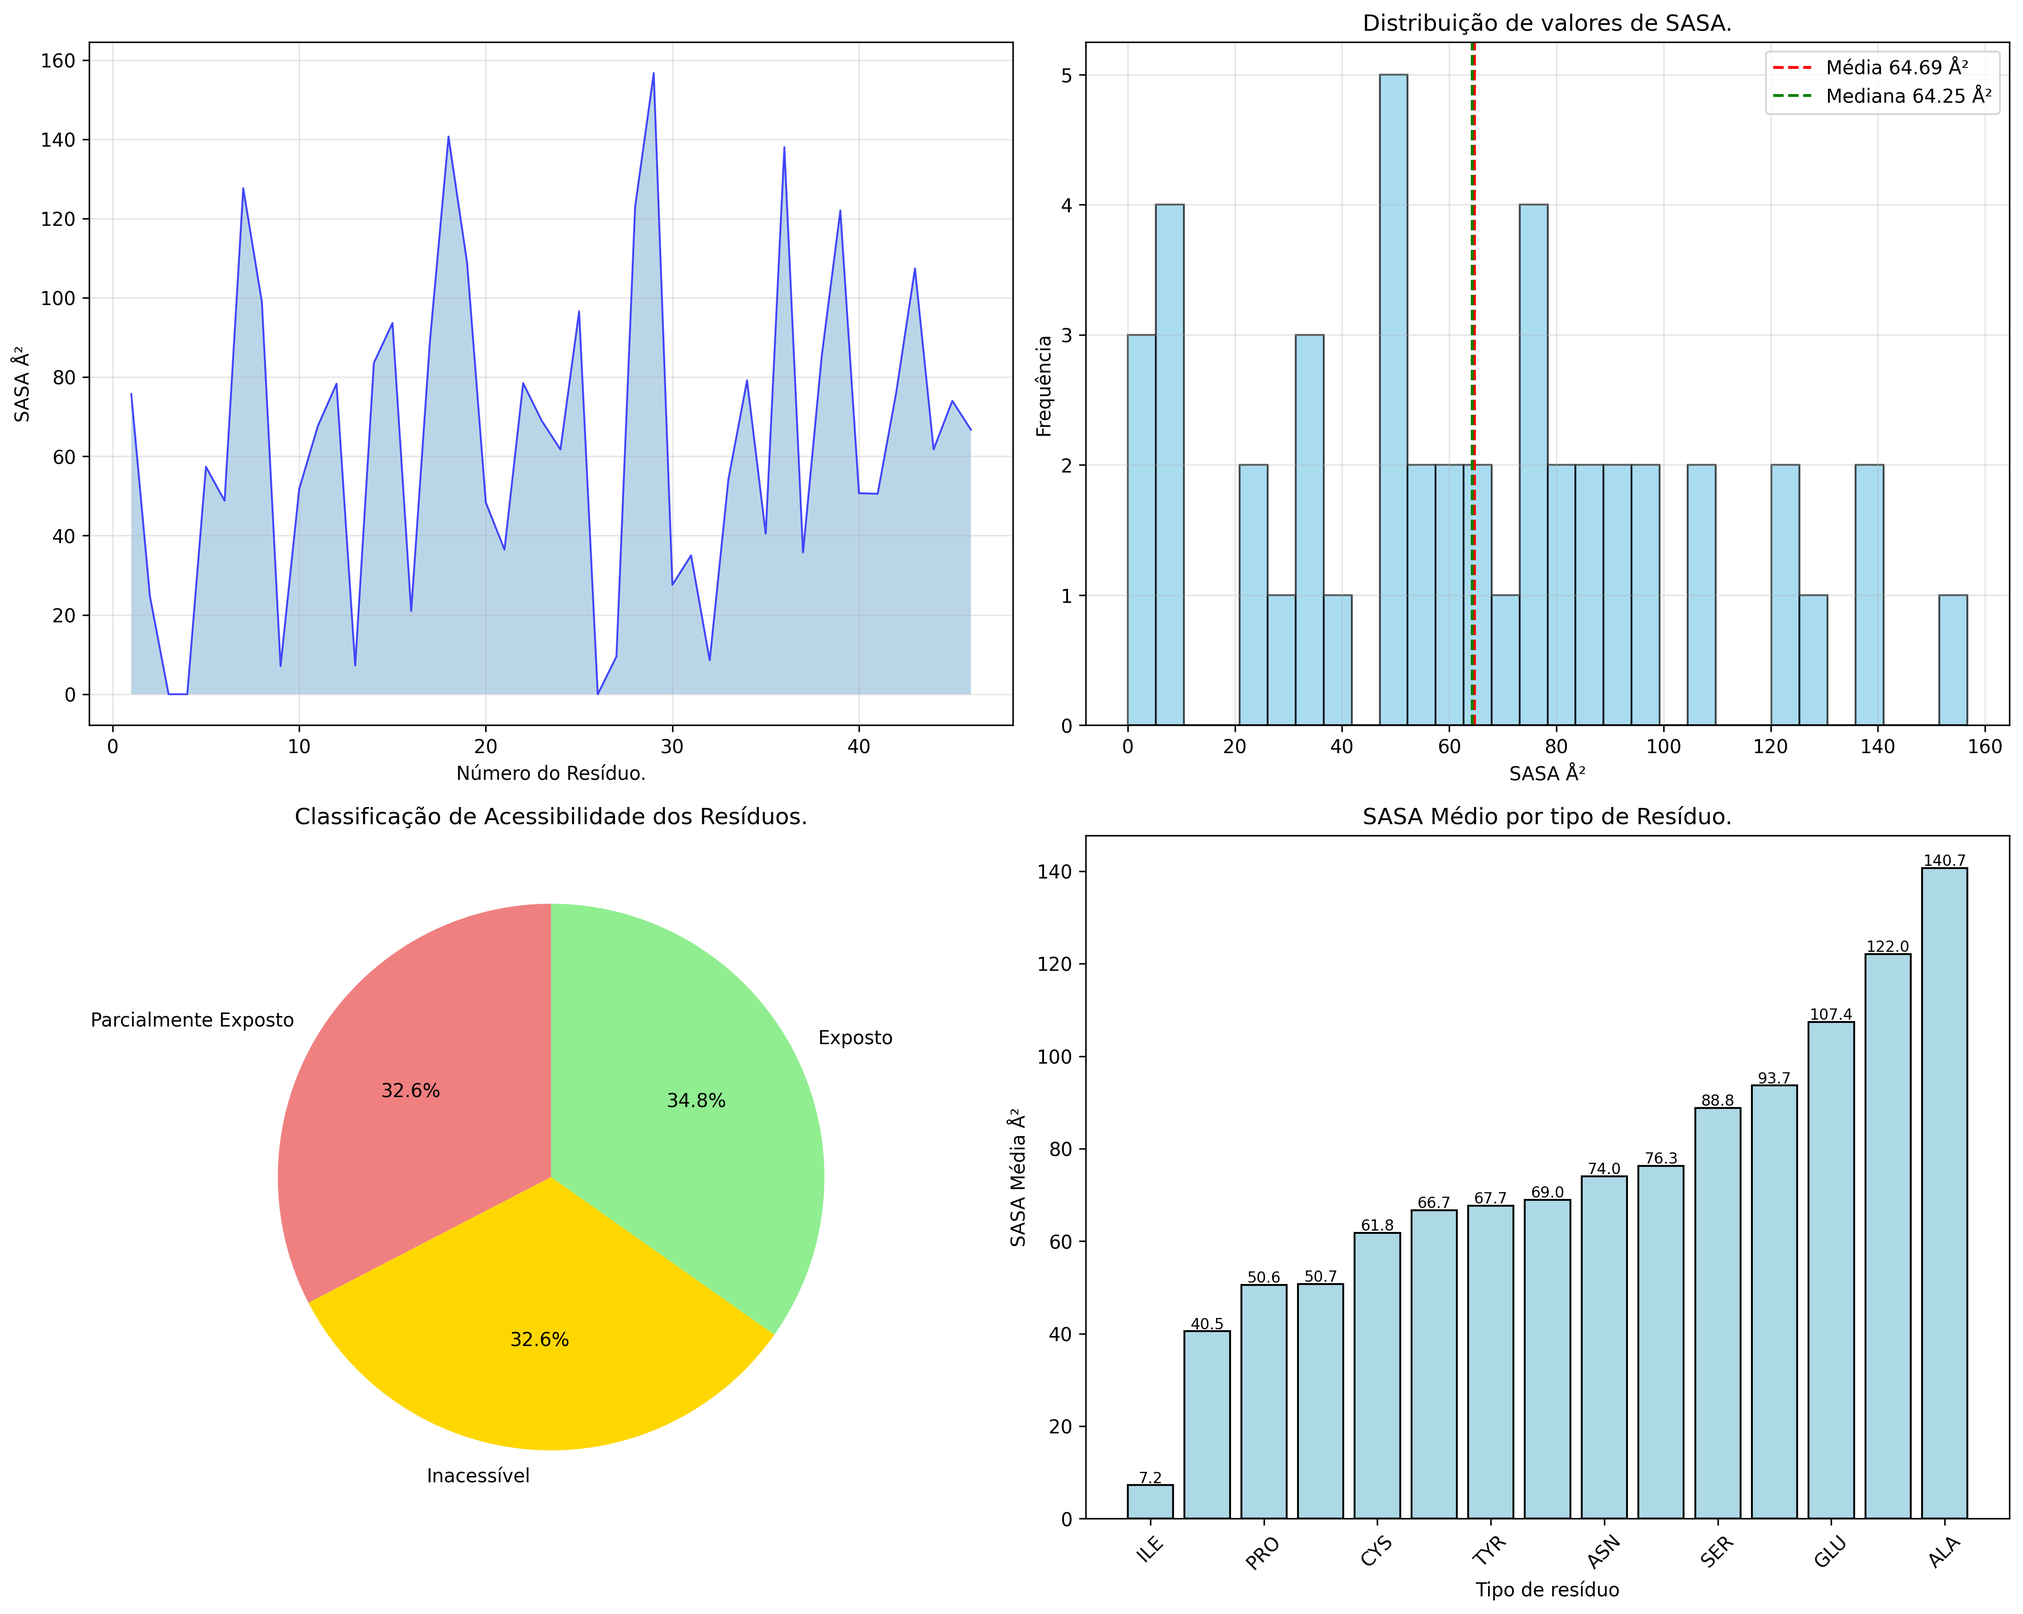
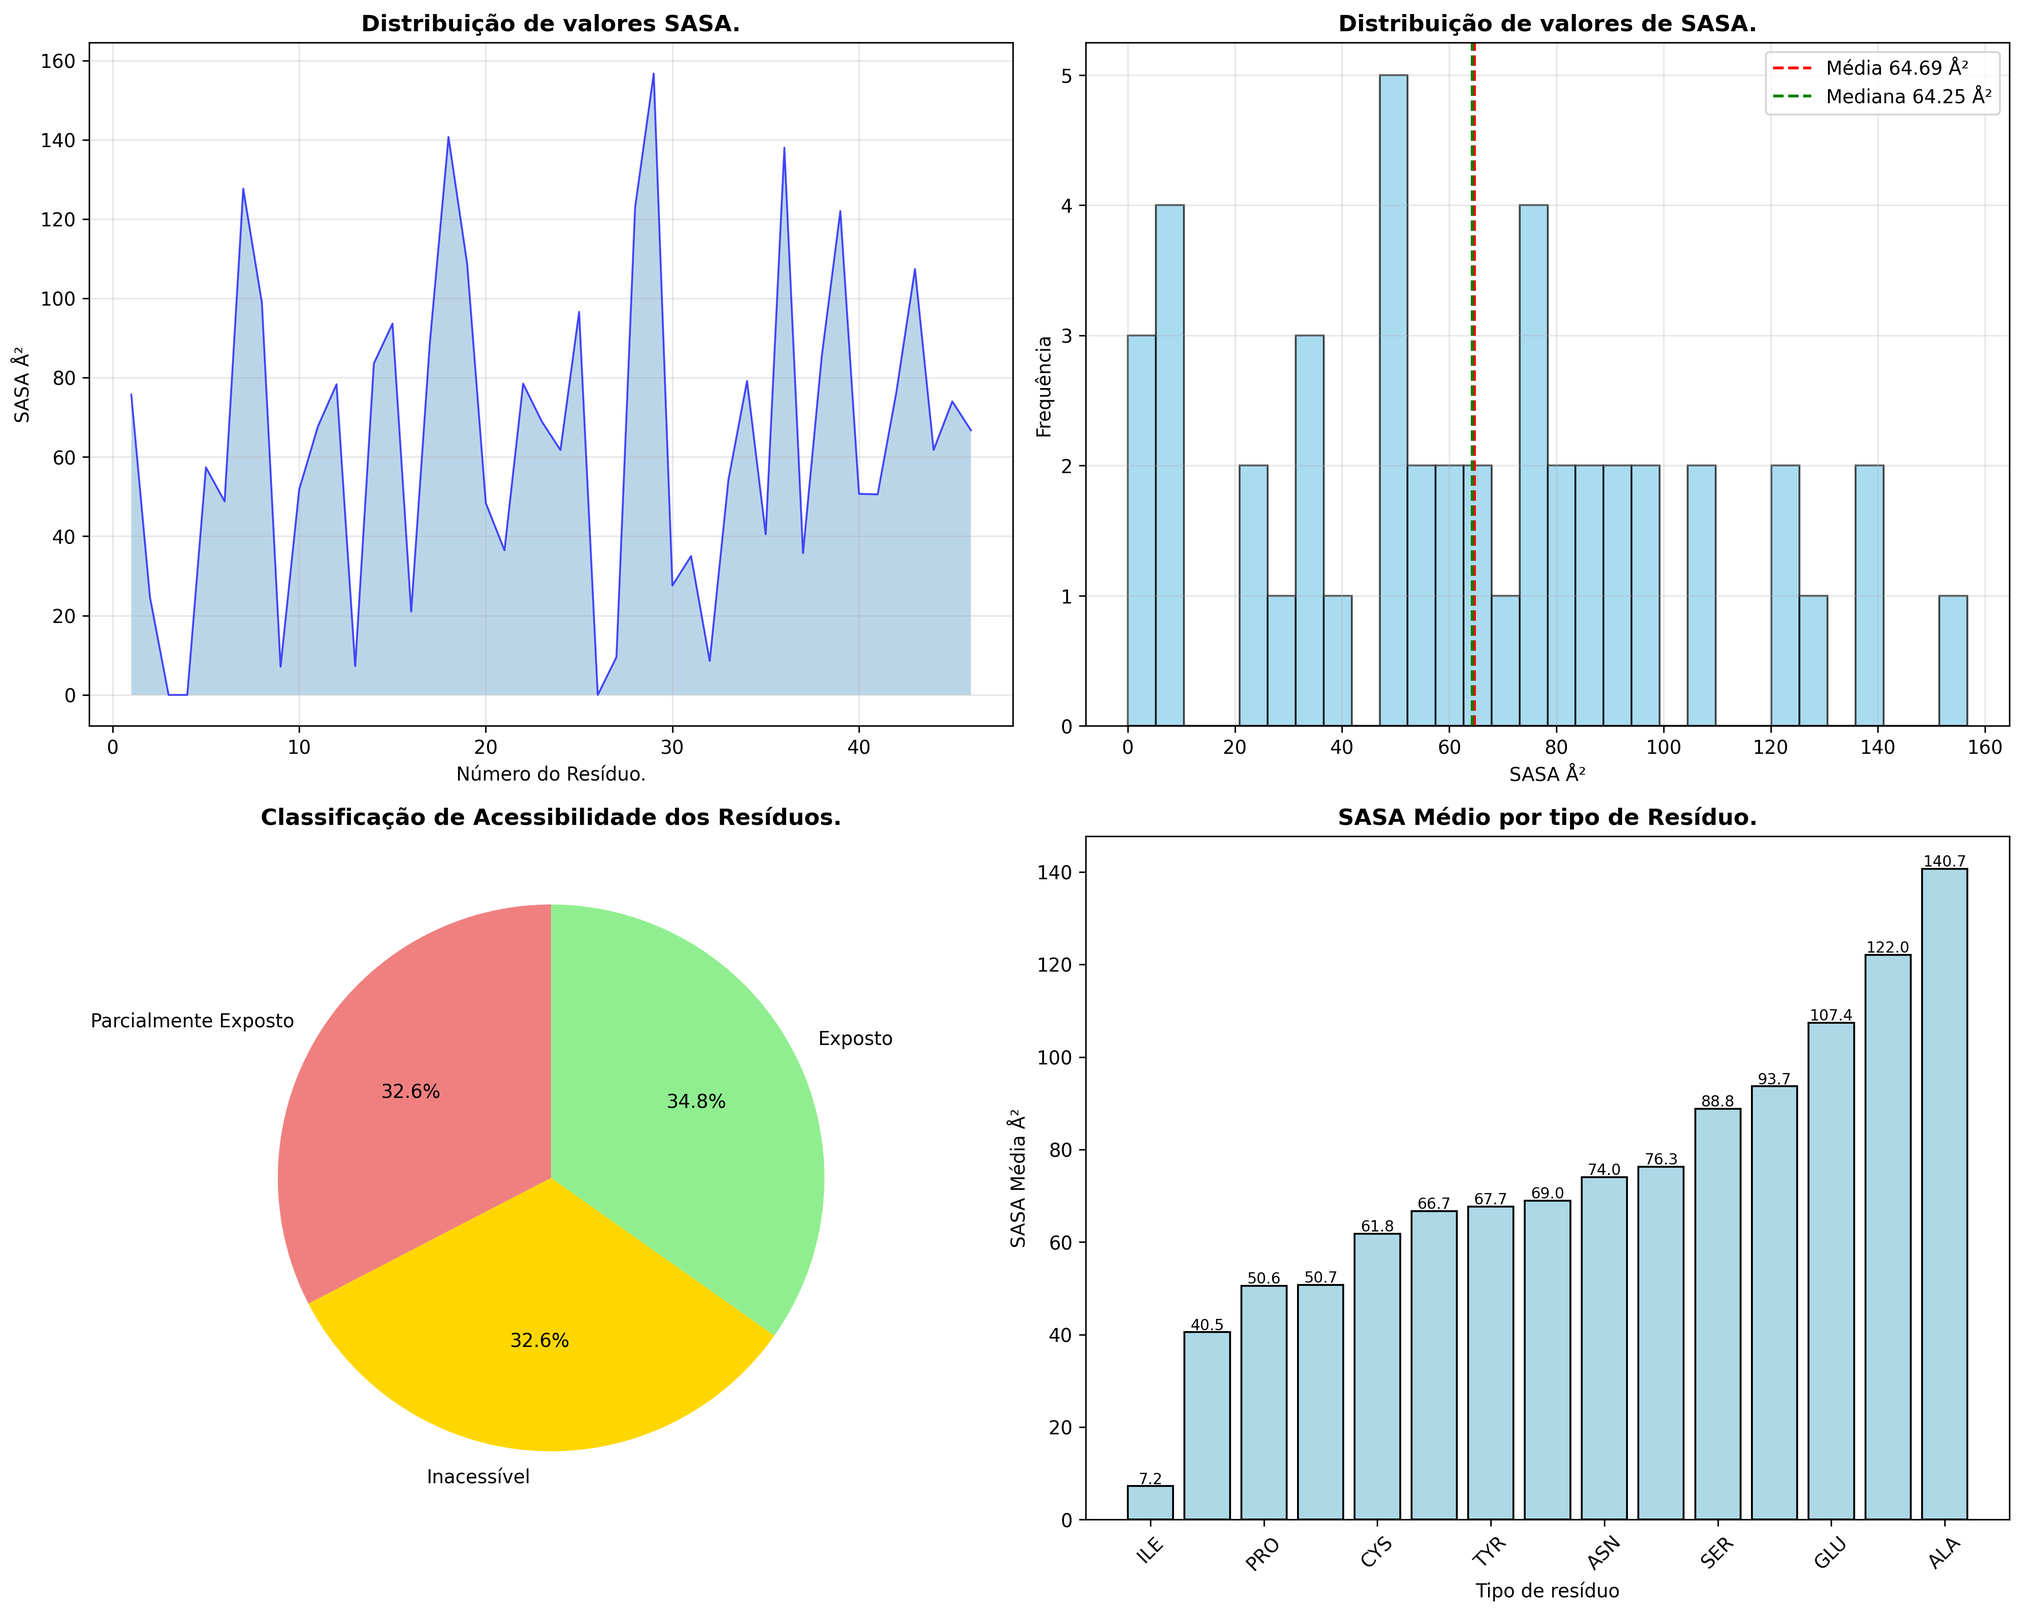
commit secundario
Geração dos arquivos e integração com PDF

diff --git a/src/pdf.py b/src/pdf.py
@@ -1,0 +1,133 @@
+import matplotlib.pyplot as plt
+from matplotlib.backends.backend_pdf import PdfPages
+import os
+import datetime
+
+class GeradorPDF:
+    def __init__(self, estrutura, destino):
+        self.estrutura = estrutura
+        self.destino = destino
+        self.__gerar_pdf()
+
+    def __gerar_pdf(self):
+        try:
+            caminho_pdf = os.path.join(self.destino, "relatorio_estrutural.pdf")
+
+            with PdfPages(caminho_pdf) as pdf:
+                self.__criar_capa(pdf)
+
+                self.__adicionar_grafico(pdf, 'ramachandran.png', "Gráfico de Ramachandran", "Distribuição dos ângulos dihedrais Phi e Psi dos resíduos protéicos.")
+                self.__adicionar_grafico(pdf, 'mapa_contato.png', "Mapa de Contatos", "Matriz de contatos entre carbonos alfa.")
+                self.__adicionar_grafico(pdf, 'pontes_hidrogenio.png', "Rede de Pontes de Hidrogênio", "Matriz e distribuição de pontes de hidrogênio na estrutura.")
+                self.__adicionar_grafico(pdf, 'distribuicao_sasa.png', "Análise de Acessibilidade", "Distribuição da Área Superficial Acessível ao Solvente.")
+
+                return caminho_pdf
+        except Exception:
+            print("ERRO: Geração de PDF.")
+    
+    def __criar_capa(self, pdf):
+        fig, ax = plt.subplots(figsize=(8.27, 11.69))
+        fig.patch.set_facecolor('white')
+        ax.axis('off')
+
+        ax.text(0.5, 0.9, "Relatório PDBAnalyzer", ha='center', va='center', fontsize=16, fontweight='bold', transform=ax.transAxes)
+
+        ax.text(0.1, 0.75, "Análise do arquivo:", ha='left', va='center', fontsize=12, fontweight='bold', transform=ax.transAxes)
+
+        resumo_pdb = {
+            'ID' : self.estrutura.cabecalho['idcode'],
+            'Nome' : self.estrutura.cabecalho['name'],
+            'Método' : self.estrutura.cabecalho['structure_method'],
+            'Resolução' : str(self.estrutura.cabecalho['resolution']) + 'A',
+            'Autor' : self.estrutura.cabecalho['author'],
+            'Data de disponibilidade' : self.estrutura.cabecalho['release_date'],
+            'Link' : "https://www.rcsb.org/structure/" + self.estrutura.cabecalho['idcode']
+        }
+
+        self.__criar_resumo_dados(ax, 0.7, resumo_pdb)
+
+        ax.text(0.1, 0.45, "Análise estrutural:", ha='left', va='center', fontsize=12, fontweight='bold', transform=ax.transAxes)
+
+        resumo_estrutural = {
+            'Modelos': str(len(self.estrutura.modelos)) + (' unidade.' if len(self.estrutura.modelos) == 1 else ' unidades.'),
+            'Cadeias': str(len(self.estrutura.cadeias)) + (' unidade.' if len(self.estrutura.cadeias) == 1 else ' unidades.'),
+            'Resíduos': str(len(self.estrutura.residuos)) + (' unidade.' if len(self.estrutura.residuos) == 1 else ' unidades.'),
+            'Átomos' : str(len(self.estrutura.atomos)) + (' unidade.' if len(self.estrutura.atomos) == 1 else ' unidades.'),
+            'Massa molecular': round(self.estrutura.massa_molecular, 2),
+            'Pontos isoelétricos': round(self.estrutura.ponto_isoeletrico, 2)
+        }
+
+        self.__criar_resumo_dados(ax, 0.4, resumo_estrutural)
+
+        data = datetime.datetime.now().strftime("%Y-%m-%d %H:%M")
+        ax.text(0.5, 0.05, f'PDBAnalyzer - Data de geração: {data}', ha='center', va='center', fontsize=10, transform=ax.transAxes)
+
+        pdf.savefig(fig, bbox_inches='tight')
+        plt.close()
+    
+    def __adicionar_grafico(self, pdf, nome_arquivo, titulo, descricao):
+        caminho = os.path.join(self.destino, nome_arquivo)
+        if os.path.exists(caminho):
+            fig = plt.figure(figsize=(8.27, 11.69))
+            fig.patch.set_facecolor('white')
+
+            gs = plt.GridSpec(3, 1, height_ratios=[0.1, 0.7, 0.2])
+
+            ax_titulo = plt.subplot(gs[0])
+            ax_titulo.axis('off')
+            ax_titulo.text(0.5, 0.5, titulo, ha='center', va='center', fontsize=14, fontweight='bold', transform=ax_titulo.transAxes)
+
+            ax_grafico = plt.subplot(gs[1])
+            img = plt.imread(caminho)
+            ax_grafico.imshow(img)
+            ax_grafico.axis('off')
+
+            ax_desc = plt.subplot(gs[2])
+            ax_desc.axis('off')
+            ax_desc.text(0.5, 0.5, descricao, ha='center', va='center', fontsize=10, style='italic', wrap=True, transform=ax_desc.transAxes)
+
+            data = datetime.datetime.now().strftime("%Y-%m-%d %H:%M")
+            ax_desc.text(0.5, 0.3, f'PDBAnalyzer - Data de geração: {data}', ha='center', va='center', fontsize=10, transform=ax_desc.transAxes)
+
+            pdf.savefig(fig, bbox_inches='tight')
+            plt.close()
+        
+        else:
+            fig, ax = plt.subplots(figsize=(8.27, 11.69))
+            fig.patch.set_facecolor('white')
+            ax.axis('off')
+            
+            ax.text(0.5, 0.7, titulo, ha='center', va='center', fontsize=14, fontweight='bold', transform=ax.transAxes)
+            
+            ax.text(0.5, 0.5, f'Gráfico {nome_arquivo} não disponível', ha='center', va='center', fontsize=12, color='red', transform=ax.transAxes)
+            
+            pdf.savefig(fig, bbox_inches='tight')
+            plt.close()
+
+    def __criar_resumo_dados(self, eixo, eixo_y, dicionario_texto):
+        if dicionario_texto:
+            for chave, valor in dicionario_texto.items():
+                texto = f"{chave}: {valor}"
+                eixo_y = self.__tratamento_quebra_de_linha(eixo, eixo_y, texto, 10)
+        return eixo_y
+
+    def __tratamento_quebra_de_linha(self, eixo, eixo_y, texto, fonte):
+        if (len(texto) * fonte * 0.75) > 500:
+            palavras = texto.split(' ')
+            linha = ""
+            for palavra in palavras:
+                linha = linha + " " + palavra if len(linha) != 0 else palavra
+                largura = len(linha) * fonte * 0.75
+                
+                if largura > 500:
+                    eixo.text(0.1, eixo_y, linha, ha='left', va='center', fontsize=fonte, transform=eixo.transAxes)
+                    eixo_y = eixo_y - 0.025
+                    linha = ""
+            
+            if len(linha) != 0:
+                eixo.text(0.1, eixo_y, linha, ha='left', va='center', fontsize=fonte, transform=eixo.transAxes)
+
+        else:
+            eixo.text(0.1, eixo_y, texto, ha='left', va='center', fontsize=fonte, transform=eixo.transAxes)
+        
+        return eixo_y - 0.025

diff --git a/src/relatorios.py b/src/relatorios.py
@@ -6,10 +6,12 @@ import numpy as np
 import matplotlib.pyplot as plt
 import os
 
+
 class Relatorio(ABC):
 
     def __init__(self, estrutura, destino_arquivos):
         self.estrutura = estrutura
+        self.destivo_arquivos = destino_arquivos
         self.__integralizacao(destino_arquivos)
 
     @abstractmethod
@@ -21,8 +23,8 @@ class Relatorio(ABC):
         pass
 
     def __integralizacao(self, destino_arquivos):
-        resultado = self._calcular()
-        destino_arquivos = self._plot(resultado, destino_arquivos)
+        self.resultado = self._calcular()
+        destino_arquivos = self._plot(self.resultado, destino_arquivos)
 
 class Ramachandran(Relatorio):
 
@@ -341,7 +343,6 @@ class PontesHidrogenio(Relatorio):
                 eixo1.set_yticklabels(rotulos_residuos, fontsize=6)
             
             pontes_por_residuo = np.sum(matriz, axis=1)
-            residuos_numeros = [info['residuo_numero'] for info in informacoes_residuos]
 
             barras = eixo2.bar(range(total_residues), pontes_por_residuo, color='lightcoral', edgecolor='darkred', alpha=0.7)
             eixo2.set_xlabel("Índice do Resíduo")
@@ -439,6 +440,7 @@ class Sasa(Relatorio):
 
             eixos[0, 0].plot(residuos_numeros, valores_sasa, 'b-', linewidth=1, alpha=0.7)
             eixos[0, 0].fill_between(residuos_numeros, valores_sasa, alpha=0.3)
+            eixos[0, 0].set_title("Distribuição de valores SASA.", fontweight='bold')
             eixos[0, 0].set_xlabel("Número do Resíduo.")
             eixos[0, 0].set_ylabel("SASA Å²")
             eixos[0, 0].grid(True, alpha=0.3)
@@ -448,7 +450,7 @@ class Sasa(Relatorio):
             eixos[0, 1].axvline(np.median(valores_sasa), color='green', linestyle='--', label=f"Mediana {np.median(valores_sasa):.2f} Å²")
             eixos[0, 1].set_xlabel("SASA Å²")
             eixos[0, 1].set_ylabel("Frequência")
-            eixos[0, 1].set_title("Distribuição de valores de SASA.")
+            eixos[0, 1].set_title("Distribuição de valores de SASA.", fontweight='bold')
             eixos[0, 1].legend()
             eixos[0, 1].grid(True, alpha=0.3)
 
@@ -459,7 +461,7 @@ class Sasa(Relatorio):
                     contador_acessibilidade[acessibilidade] = contador_acessibilidade.get(acessibilidade, 0) + 1
                 cores = ['lightcoral', 'gold', 'lightgreen']
                 eixos[1, 0].pie(contador_acessibilidade.values(), labels=contador_acessibilidade.keys(), autopct='%1.1f%%', colors=cores, startangle=90)
-                eixos[1, 0].set_title("Classificação de Acessibilidade dos Resíduos.")
+                eixos[1, 0].set_title("Classificação de Acessibilidade dos Resíduos.", fontweight='bold')
             
             residuos_tipos = {}
             for data in resultado:
@@ -477,7 +479,7 @@ class Sasa(Relatorio):
             barras = eixos[1, 1].bar(range(len(residuos_nomes)), residuos_medias, color='lightblue', edgecolor='black')
             eixos[1, 1].set_xlabel("Tipo de resíduo")
             eixos[1, 1].set_ylabel("SASA Média Å²")
-            eixos[1, 1].set_title("SASA Médio por tipo de Resíduo.")
+            eixos[1, 1].set_title("SASA Médio por tipo de Resíduo.", fontweight='bold')
             eixos[1, 1].set_xticklabels(residuos_nomes, rotation=45)
 
             for barra, valor in zip(barras, residuos_medias):
@@ -489,8 +491,38 @@ class Sasa(Relatorio):
             plt.savefig(destino_arquivo, dpi=300, bbox_inches='tight')
             plt.close()
 
-            print(f"Gráicos SASA salvos como: {destino_arquivo}")
+            print(f"Gráficos SASA salvos como: {destino_arquivo}")
             return destino_arquivo
 
         except Exception as e:
             raise ValueError(f"Erro ao gerar os gráficos SASA.")
+    
+class Conformacao3d(Relatorio):
+    def _calcular(self):
+        resultado = {}
+        return resultado
+
+    def _plot(self, resultado, destino):
+        fig = plt.figure(figsize=(8, 6))
+        ax = fig.add_subplot(111, projection='3d')
+
+        for modelo in self.estrutura.estrutura:
+            for cadeia in modelo:
+                for residuo in cadeia:
+                    try:
+                        ca = residuo['CA']
+                        x, y, z = ca.get_coord()
+                        ax.scatter(x, y, z, c='blue', s=20)
+                    except KeyError:
+                        continue
+        
+        ax.set_title(f"Estrutura")
+        ax.set_xlabel('x (A)')
+        ax.set_ylabel('y (A)')
+        ax.set_zlabel('z (A)')
+
+        destino_arquivo = os.path.join(destino, f"estrutura.png")
+        plt.savefig(destino_arquivo, dpi=150, bbox_inches='tight')
+        plt.close()
+
+        return destino_arquivo

diff --git a/src/estrutura_proteica.py b/src/estrutura_proteica.py
@@ -1,15 +1,14 @@
 from Bio.PDB import PDBParser, PPBuilder
 from Bio.SeqUtils import molecular_weight
 from Bio.SeqUtils.IsoelectricPoint import IsoelectricPoint as IP
-from relatorios import Ramachandran, MapaContato, PontesHidrogenio, Sasa
-import os
+from relatorios import Ramachandran, MapaContato, PontesHidrogenio, Sasa, Conformacao3d
 
 class Estrutura:
     def __init__(self, arquivo):
 
         self.arquivo = arquivo
-        try:        
-            self.estrutura = self.__carregamento_arquivo_proteina()
+        try:
+            self.estrutura, self.cabecalho = self.__carregamento_arquivo_proteina()
             self.modelos = list(self.estrutura.get_models())
 
             self.cadeias = []
@@ -25,14 +24,15 @@ class Estrutura:
             destino_arquivos = "results"
             self._gerar_graficos(destino_arquivos)
 
-        except Exception:
-            raise ValueError(f"* ERRO: Extração de metadados da proteína {self.arquivo}.")
+        except Exception as e:
+            raise ValueError(f"* ERRO: Extração de metadados da proteína {e}.")
 
     def __carregamento_arquivo_proteina(self):
         try:
             parser = PDBParser(QUIET=True)
             estrutura = parser.get_structure('protein', self.arquivo)
-            return estrutura
+            cabecalho = parser.get_header()
+            return estrutura, cabecalho
         
         except FileNotFoundError:
             raise FileNotFoundError(f"ERRO: Arquvio da proteína não encontrado {self.arquivo}.")
@@ -58,7 +58,7 @@ class Estrutura:
 
         except Exception:
             massa_molecular = len(sequencia_polipep_completa) * 110
-            print(f"ERRO: Cálculo da massa molecular. Será atribuido pelo tamanho da sequencia * {massa_molecular}")
+            print(f"ERRO: Cálculo da massa molecular. Será atribuido pelo tamanho da sequencia * {110}")
 
         return massa_molecular
     
@@ -78,21 +78,4 @@ class Estrutura:
         self.mapa_contato = MapaContato(self, destino)
         self.pontes_H = PontesHidrogenio(self, destino)
         self.sasa = Sasa(self, destino)
-    
-    def resumo_estrutural(self):
-        print("=" * 70)
-        print("RESUMO DA ESTRUTURA DA PROTEÍNA")
-        print(f"Número de modelos: {len(self.modelos)}")
-        print(f"Número de cadeias: {len(self.cadeias)}")
-        print(f"Número de resíduos: {len(self.residuos)}")
-        print(f"Número de átomos: {len(self.atomos)}\n")
-        print(f"Massa Molecular: {self.massa_molecular}")
-        print(f"Ponto isoelétrico: {self.ponto_isoeletrico}")
-        print("-" * 70)
-        
-        for contador, sequencia in enumerate(self.sequencias_polipeptidica):
-            visualizacao_sequencia = sequencia + "..." if len(sequencia) > 30 else sequencia
-            print(f"{contador + 1}º Sequência - Total: {len(sequencia)}\n{visualizacao_sequencia} resíduos.")
-            
-        print("-" * 70)
-        print("=" * 70)
+        self.conformacao = Conformacao3d(self, destino)

diff --git a/src/pdb_analyzer.py b/src/pdb_analyzer.py
@@ -1,12 +1,11 @@
 import sys
-import os
 from estrutura_proteica import Estrutura
+from pdf import GeradorPDF
 
 def main():
-    print("TESTE")
 
     estrutura = Estrutura(sys.argv[1])
-    estrutura.resumo_estrutural()
+    pdf = GeradorPDF(estrutura, "results")
 
 if __name__ == "__main__":
     main()
